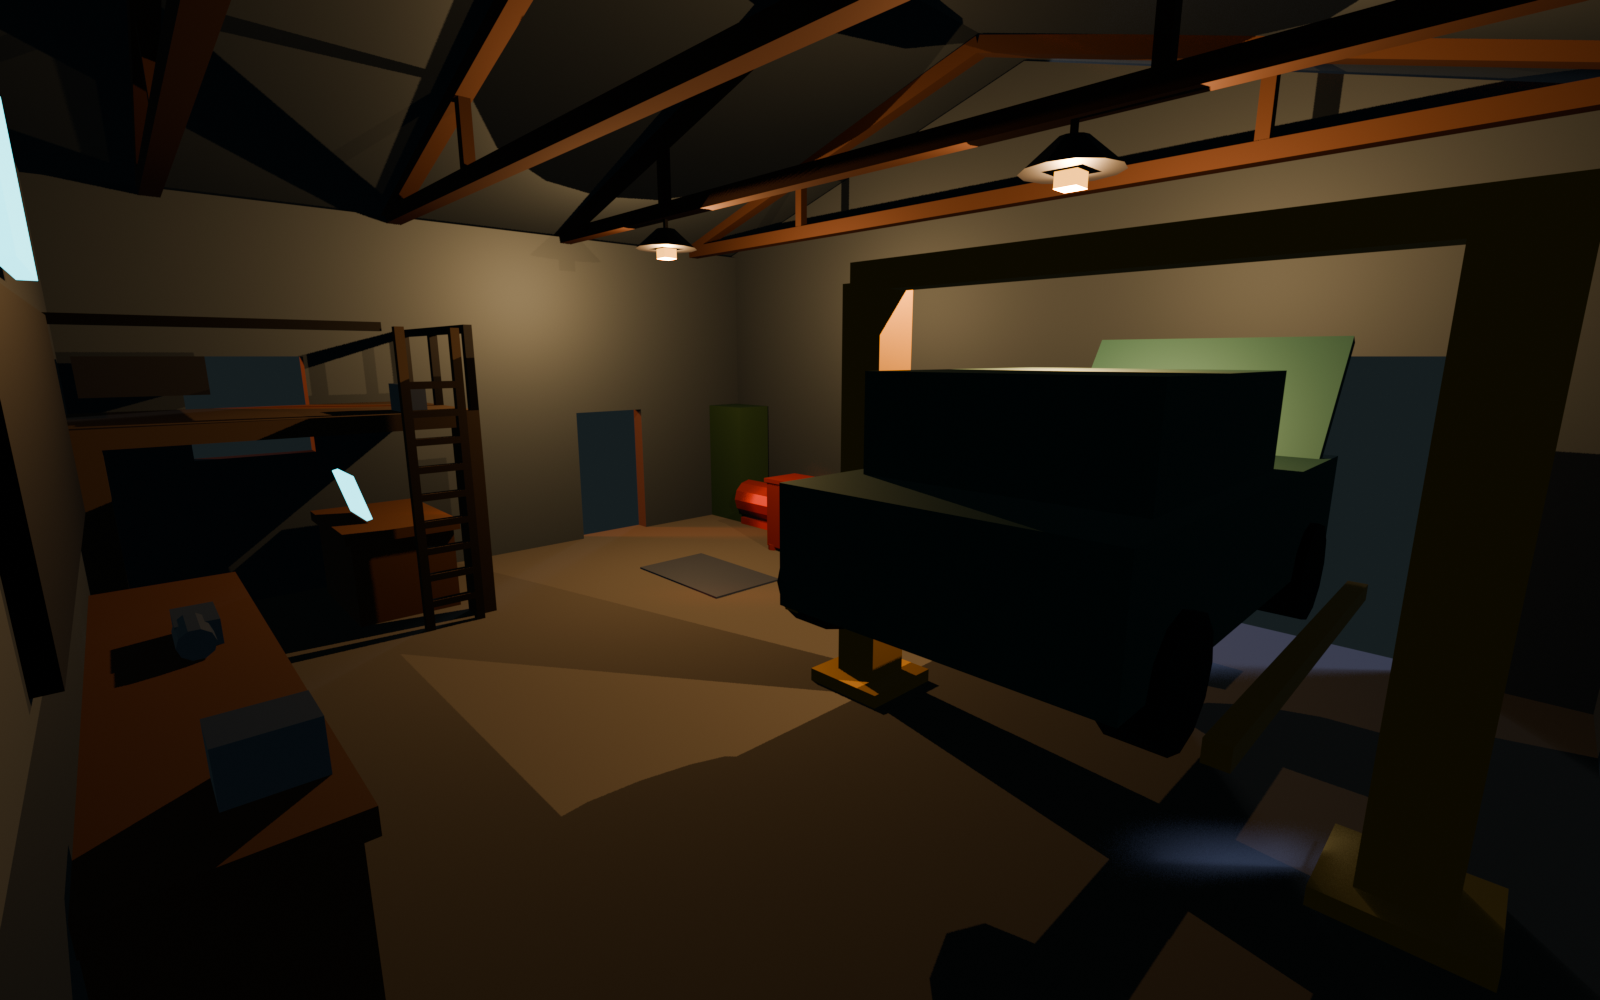
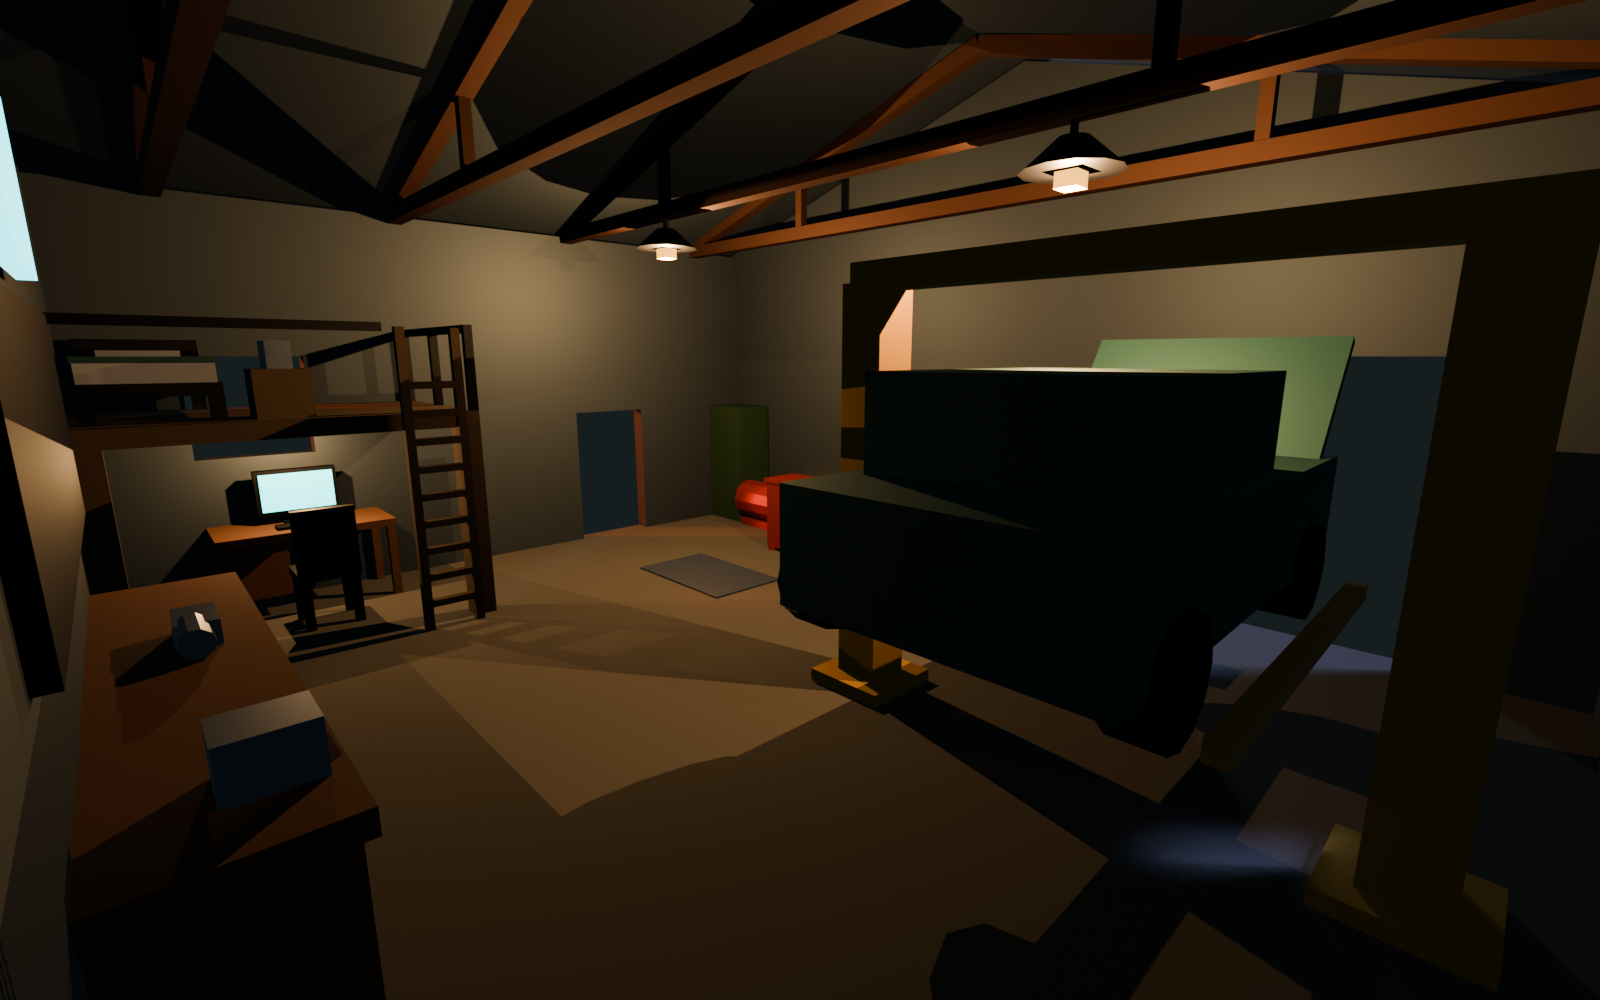
Linajes: taller, cama de verdad arriba y escritorio con silla pegado a la pared abajo del entrepiso

diff --git a/linajes/arte/scripts/interiores/taller.py b/linajes/arte/scripts/interiores/taller.py
@@ -8,7 +8,8 @@ Planta de 40 x 32 studs (el prompt dice 40 x 30; 32 para que entre en la grilla 
 16 y techo a dos aguas con cumbrera a 22 (entra en el lote de 50 x 22 x 40 del graybox). Frente a la calle
 en -Y: portón de 12 x 10 a la izquierda (delante del elevador) y abierto. Oeste: elevador amarillo con
 el auto. Fondo: banco de roble con morsa y el gancho a medio armar, tablero de herramientas arriba.
-Este: entrepiso de madera con escalera, catre y radio; debajo, la mesa de fabricación con la compu.
+Este: entrepiso de madera con escalera; arriba, la cama y un cajón con la radio; abajo, el escritorio
+de la compu pegado a la pared, con su silla.
 Tambores en la esquina del fondo al oeste. Esquina del frente al este: carro rojo, compresor y locker verde; puerta lateral en el
 este. Piso de losas con rejilla y chapa semilla de melón. Dos lámparas colgantes cálidas.
 """
@@ -39,8 +40,8 @@ ENTREPISO = 8  # altura del piso del entrepiso
 MARCADORES = {
     "PuntoNPC_Tano": (-8, -4, 0),  # junto al auto
     "PuntoNPC_Nico": (2, 10, 0),  # junto al banco
-    "Banco": (15.5, 3.4, 0),  # mesa de fabricación, abajo del entrepiso
-    "Cama": (16, 12, ENTREPISO),  # catre del entrepiso
+    "Banco": (14.2, 9, 0),  # silla del escritorio de la compu, abajo del entrepiso
+    "Cama": (15.5, 13.1, ENTREPISO),  # cama del entrepiso
     "Salida": (-10, -17, 0),  # portón
     "Salida_Lateral": (21, PUERTA_Y, 0),
     "Spawn_Civil": (-10, -12, 0),  # cliente en la puerta
@@ -119,10 +120,18 @@ def muebles():
     o.append(pieza("Banco_Gancho", [((1.6, 0.8, 0.6), (bx + 2, by - 0.3, 3.85))], "acero", cilindros=[(0.35, 1.4, (bx + 0.4, by - 0.2, 3.9), "X", 10)]))
     o.append(pieza("Tablero", [((14, 0.3, 5), (bx, HY - G - 0.15, 8.5))], "hierro"))
     o.append(pieza("Ventana_Fondo", [((5, 0.3, 3.4), (bx, HY - G - 0.3, 13.2))], "neon-cian"))  # pantalla/ventana chica de la ref-1
-    # mesa de fabricación con la compu, abajo del entrepiso (la cama queda arriba)
-    mx, my = 15.5, 6.6
-    o.append(pieza("MesaFabricacion", [((6, 4, 0.4), (mx, my, 3.4)), ((5.6, 3.6, 3.2), (mx, my, 1.6))], "roble"))
-    o.append(pieza("MesaFabricacion_Pantalla", [((2.6, 0.2, 1.8), (mx, my + 1, 4.6), (-15, 0, 0))], "neon-cian"))
+    # escritorio de la compu contra la pared este, abajo del entrepiso, con silla (la compu mira al taller)
+    dx, dy = HX - G - 1.6, 9  # escritorio de 3,2 de fondo x 6 de largo, pegado a la pared
+    esc = [((3.2, 6, 0.3), (dx, dy, 3.15))]  # tapa
+    esc += [((0.3, 0.3, 3.0), (dx + sx * 1.4, dy + sy * 2.8, 1.5)) for sx in (-1, 1) for sy in (-1, 1)]  # patas
+    esc += [((2.8, 2, 2.2), (dx + 0.1, dy + 1.8, 1.9))]  # cajonera
+    o.append(pieza("MesaFabricacion", esc, "roble"))
+    o.append(pieza("MesaFabricacion_Monitor", [((0.4, 2.8, 1.8), (dx + 0.6, dy, 4.6)), ((0.3, 0.3, 0.8), (dx + 0.8, dy, 3.7)), ((1, 1.2, 0.1), (dx + 0.8, dy, 3.35))], "hierro"))
+    o.append(pieza("MesaFabricacion_Pantalla", [((0.1, 2.5, 1.5), (dx + 0.35, dy, 4.6))], "neon-cian"))
+    o.append(pieza("MesaFabricacion_Teclado", [((0.8, 2, 0.12), (dx - 0.6, dy, 3.36))], "hierro"))
+    silla = [((2, 2, 0.3), (dx - 3.2, dy, 2.0)), ((0.3, 2, 2.4), (dx - 4.1, dy, 3.35))]  # asiento y respaldo
+    silla += [((0.3, 0.3, 1.85), (dx - 3.2 + sx * 0.8, dy + sy * 0.8, 0.925)) for sx in (-1, 1) for sy in (-1, 1)]
+    o.append(pieza("Silla", silla, "hierro"))
     # entrepiso este: piso de madera sobre 2 postes, baranda, escalera, catre y radio
     ex0, ex1, ey0, ey1 = 11, HX - G, 4, HY - G
     cx, cy = (ex0 + ex1) / 2, (ey0 + ey1) / 2
@@ -135,8 +144,16 @@ def muebles():
     esc = [((0.3, 0.3, ENTREPISO + 3), (ex0 - 0.4, y, (ENTREPISO + 3) / 2)) for y in (ey0 + 0.8, ey0 + 2.6)]
     esc += [((0.3, 1.8, 0.25), (ex0 - 0.4, ey0 + 1.7, z)) for z in range(1, ENTREPISO + 2)]
     o.append(pieza("Escalera", esc, "madera-entrepiso"))
-    o.append(pieza("Catre", [((6, 3, 0.8), (cx + 0.5, ey1 - 2, ENTREPISO + 1.2)), ((6, 3, 0.4), (cx + 0.5, ey1 - 2, ENTREPISO + 1.8))], "tela-oscura"))
-    o.append(pieza("Radio", [((1.6, 0.8, 1.0), (ex0 + 1.5, ey0 + 2, ENTREPISO + 0.5))], "acero"))
+    # cama de verdad arriba del entrepiso: marco con patas, colchón, almohada y frazada; cajón con la radio al lado
+    kx, ky = cx + 0.4, ey1 - 2.1
+    marco = [((7, 3.4, 0.4), (kx, ky, ENTREPISO + 1.0))] + [((0.4, 0.4, 0.8), (kx + sx * 3.3, ky + sy * 1.5, ENTREPISO + 0.4)) for sx in (-1, 1) for sy in (-1, 1)]
+    marco += [((0.4, 3.4, 1.8), (kx + 3.3, ky, ENTREPISO + 1.7))]  # cabecera
+    o.append(pieza("Cama", marco, "hierro"))
+    o.append(pieza("Cama_Colchon", [((6.4, 3.2, 0.6), (kx - 0.1, ky, ENTREPISO + 1.5))], "maniqui"))
+    o.append(pieza("Cama_Almohada", [((1.2, 2.2, 0.4), (kx + 2.4, ky, ENTREPISO + 2.0))], "maniqui"))
+    o.append(pieza("Cama_Frazada", [((4.2, 3.3, 0.2), (kx - 1.1, ky, ENTREPISO + 1.9))], "porton-verde"))
+    o.append(pieza("Cajon", [((1.6, 1.6, 1.6), (ex0 + 1.4, ky - 3.2, ENTREPISO + 0.8))], "madera-entrepiso"))
+    o.append(pieza("Radio", [((1.4, 0.7, 0.9), (ex0 + 1.4, ky - 3.2, ENTREPISO + 2.05))], "acero"))
     o.append(pieza("Tambores", [], "oxido", cilindros=[(1.2, 3.6, (x, y, 0), "Z", 14) for x, y in ((-17.6, 12.4), (-15, 13))]))
     # esquina del frente al este: carro rojo, compresor y locker verde
     o.append(pieza("CarroHerramientas", [((3, 2, 3.4), (9, -11, 1.9)), ((3.2, 2.2, 0.2), (9, -11, 3.7))], "rojo-herramienta", cilindros=[(0.3, 0.3, (9 + sx * 1.2, -11 + sy * 0.8, 0), "Z", 8) for sx in (-1, 1) for sy in (-1, 1)]))
@@ -193,7 +210,7 @@ def revisar(objs):
     bpy.context.view_layer.update()
     estructura = ("Pared", "Piso", "Techo", "Cerchas", "Hastial", "Porton")
     juntos = {("Elevador", "Auto"), ("Elevador", "Auto_Ruedas"), ("Auto", "Auto_Ruedas"), ("Banco", "Banco_Morsa"), ("Banco", "Banco_Gancho"),
-              ("MesaFabricacion", "MesaFabricacion_Pantalla"), ("Entrepiso", "Entrepiso_Baranda"), ("Entrepiso", "Catre"), ("Entrepiso", "Radio"),
+              ("Entrepiso", "Entrepiso_Baranda"), ("Entrepiso", "Cama"), ("Entrepiso", "Cajon"), ("Cajon", "Radio"),
               ("Entrepiso", "Escalera"), ("CarroHerramientas", "CarroHerramientas"), ("Compresor", "Compresor")}
     cajas = {}
     for o in objs:
@@ -204,7 +221,7 @@ def revisar(objs):
     cruces, flotan = [], []
     for i, a in enumerate(nombres):
         mna, mxa = cajas[a]
-        if not a.startswith(estructura) and not a.startswith(("Neon_", "Lampara", "Tablero", "Ventana", "Entrepiso", "Catre", "Radio", "Escalera")) and 0.03 < mna[2] < 0.6:
+        if not a.startswith(estructura) and not a.startswith(("Neon_", "Lampara", "Tablero", "Ventana", "Entrepiso", "Cama", "Cajon", "Radio", "Escalera")) and 0.03 < mna[2] < 0.6:
             flotan.append((a, round(mna[2], 2)))
         for b in nombres[i + 1 :]:
             if a.startswith(estructura) and b.startswith(estructura):
@@ -259,6 +276,12 @@ def boceto():
         luz = bpy.data.objects.new(f"Luz{i}", d)
         bpy.context.scene.collection.objects.link(luz)
         luz.location = P.S(x, -4, 13.6)
+    d = bpy.data.lights.new("LuzEscritorio", "POINT")  # foquito bajo el entrepiso
+    d.color = B.color("ffc27a")[:3]
+    d.energy = 150
+    luz = bpy.data.objects.new("LuzEscritorio", d)
+    bpy.context.scene.collection.objects.link(luz)
+    luz.location = P.S(16, 9, ENTREPISO - 1.2)
     bpy.ops.wm.save_as_mainfile(filepath=BLEND)
     cruces, flotan = revisar(est + mue)
     sin_techo = [o for o in est if not o.name.startswith(("Techo", "Hastial", "Cerchas"))] + mue + [man]
@@ -266,7 +289,8 @@ def boceto():
     r2 = camara(ARCHIVO + "_boceto_puerta", (-9, -15, 6.5), (6, 10, 4.5), lente=16)
     r3 = camara(ARCHIVO + "_boceto_fondo", (-17, 14, 10), (8, -10, 3), lente=16)
     r4 = P.render_orto(ARCHIVO + "_boceto_corte", [o for o in sin_techo if not o.name.startswith(("Pared_Frente", "Porton", "Lampara", "Neon_"))], giro=-25, altura=35, niebla=False, solo=True)
-    return {"cruces": cruces, "flotan": flotan, "triangulos": B.contar_triangulos(est + mue), "renders": [r1, r2, r3, r4]}
+    r5 = camara(ARCHIVO + "_boceto_entrepiso", (3, -6, 7), (17, 9, 4), lente=20)
+    return {"cruces": cruces, "flotan": flotan, "triangulos": B.contar_triangulos(est + mue), "renders": [r1, r2, r3, r4, r5]}
 
 
 if __name__ == "__main__":

diff --git a/linajes/boveda/08 Lugares/Taller de Tano.md b/linajes/boveda/08 Lugares/Taller de Tano.md
@@ -45,9 +45,10 @@ Graybox con tag `Lugar`. Modelo nuevo pendiente (P25d rehecho).
 ![[interior-taller_boceto_puerta.png]]
 ![[interior-taller_boceto_fondo.png]]
 ![[interior-taller_boceto_corte.png]]
+![[interior-taller_boceto_entrepiso.png]]
 
-**Dónde está cada cosa**: elevador con el auto al oeste, detrás del portón. Banco de roble con morsa y el gancho, con el tablero de herramientas arriba, en el fondo. Entrepiso al este: **arriba**, el catre y la radio; **abajo**, la mesa de fabricación con la compu (cambio de Juani, 1 nov). Tambores en la esquina del fondo, al oeste. El centro queda libre para pelear. Carro rojo, compresor y locker verde en la esquina del frente, al este, al lado de la puerta lateral. Dos lámparas cálidas cuelgan de las cerchas.
-**Puntos para el código**: PuntoNPC_Tano (junto al auto), PuntoNPC_Nico (banco), Banco (mesa de fabricación, abajo del entrepiso), Cama (catre), Salida (portón), Salida_Lateral y Spawn_Civil.
+**Dónde está cada cosa**: elevador con el auto al oeste, detrás del portón. Banco de roble con morsa y el gancho, con el tablero de herramientas arriba, en el fondo. Entrepiso al este: **arriba**, una cama de verdad (marco de hierro con patas y cabecera, colchón, almohada y frazada) y un cajón con la radio; **abajo**, el escritorio de la compu pegado a la pared, con monitor, teclado, cajonera, silla y un foquito (cambios de Juani, 1 nov). Tambores en la esquina del fondo, al oeste. El centro queda libre para pelear. Carro rojo, compresor y locker verde en la esquina del frente, al este, al lado de la puerta lateral. Dos lámparas cálidas cuelgan de las cerchas.
+**Puntos para el código**: PuntoNPC_Tano (junto al auto), PuntoNPC_Nico (banco), Banco (silla del escritorio de la compu), Cama (catre), Salida (portón), Salida_Lateral y Spawn_Civil.
 
 ## Cómo suena
 Radio vieja de fondo, amoladora, goteo.
